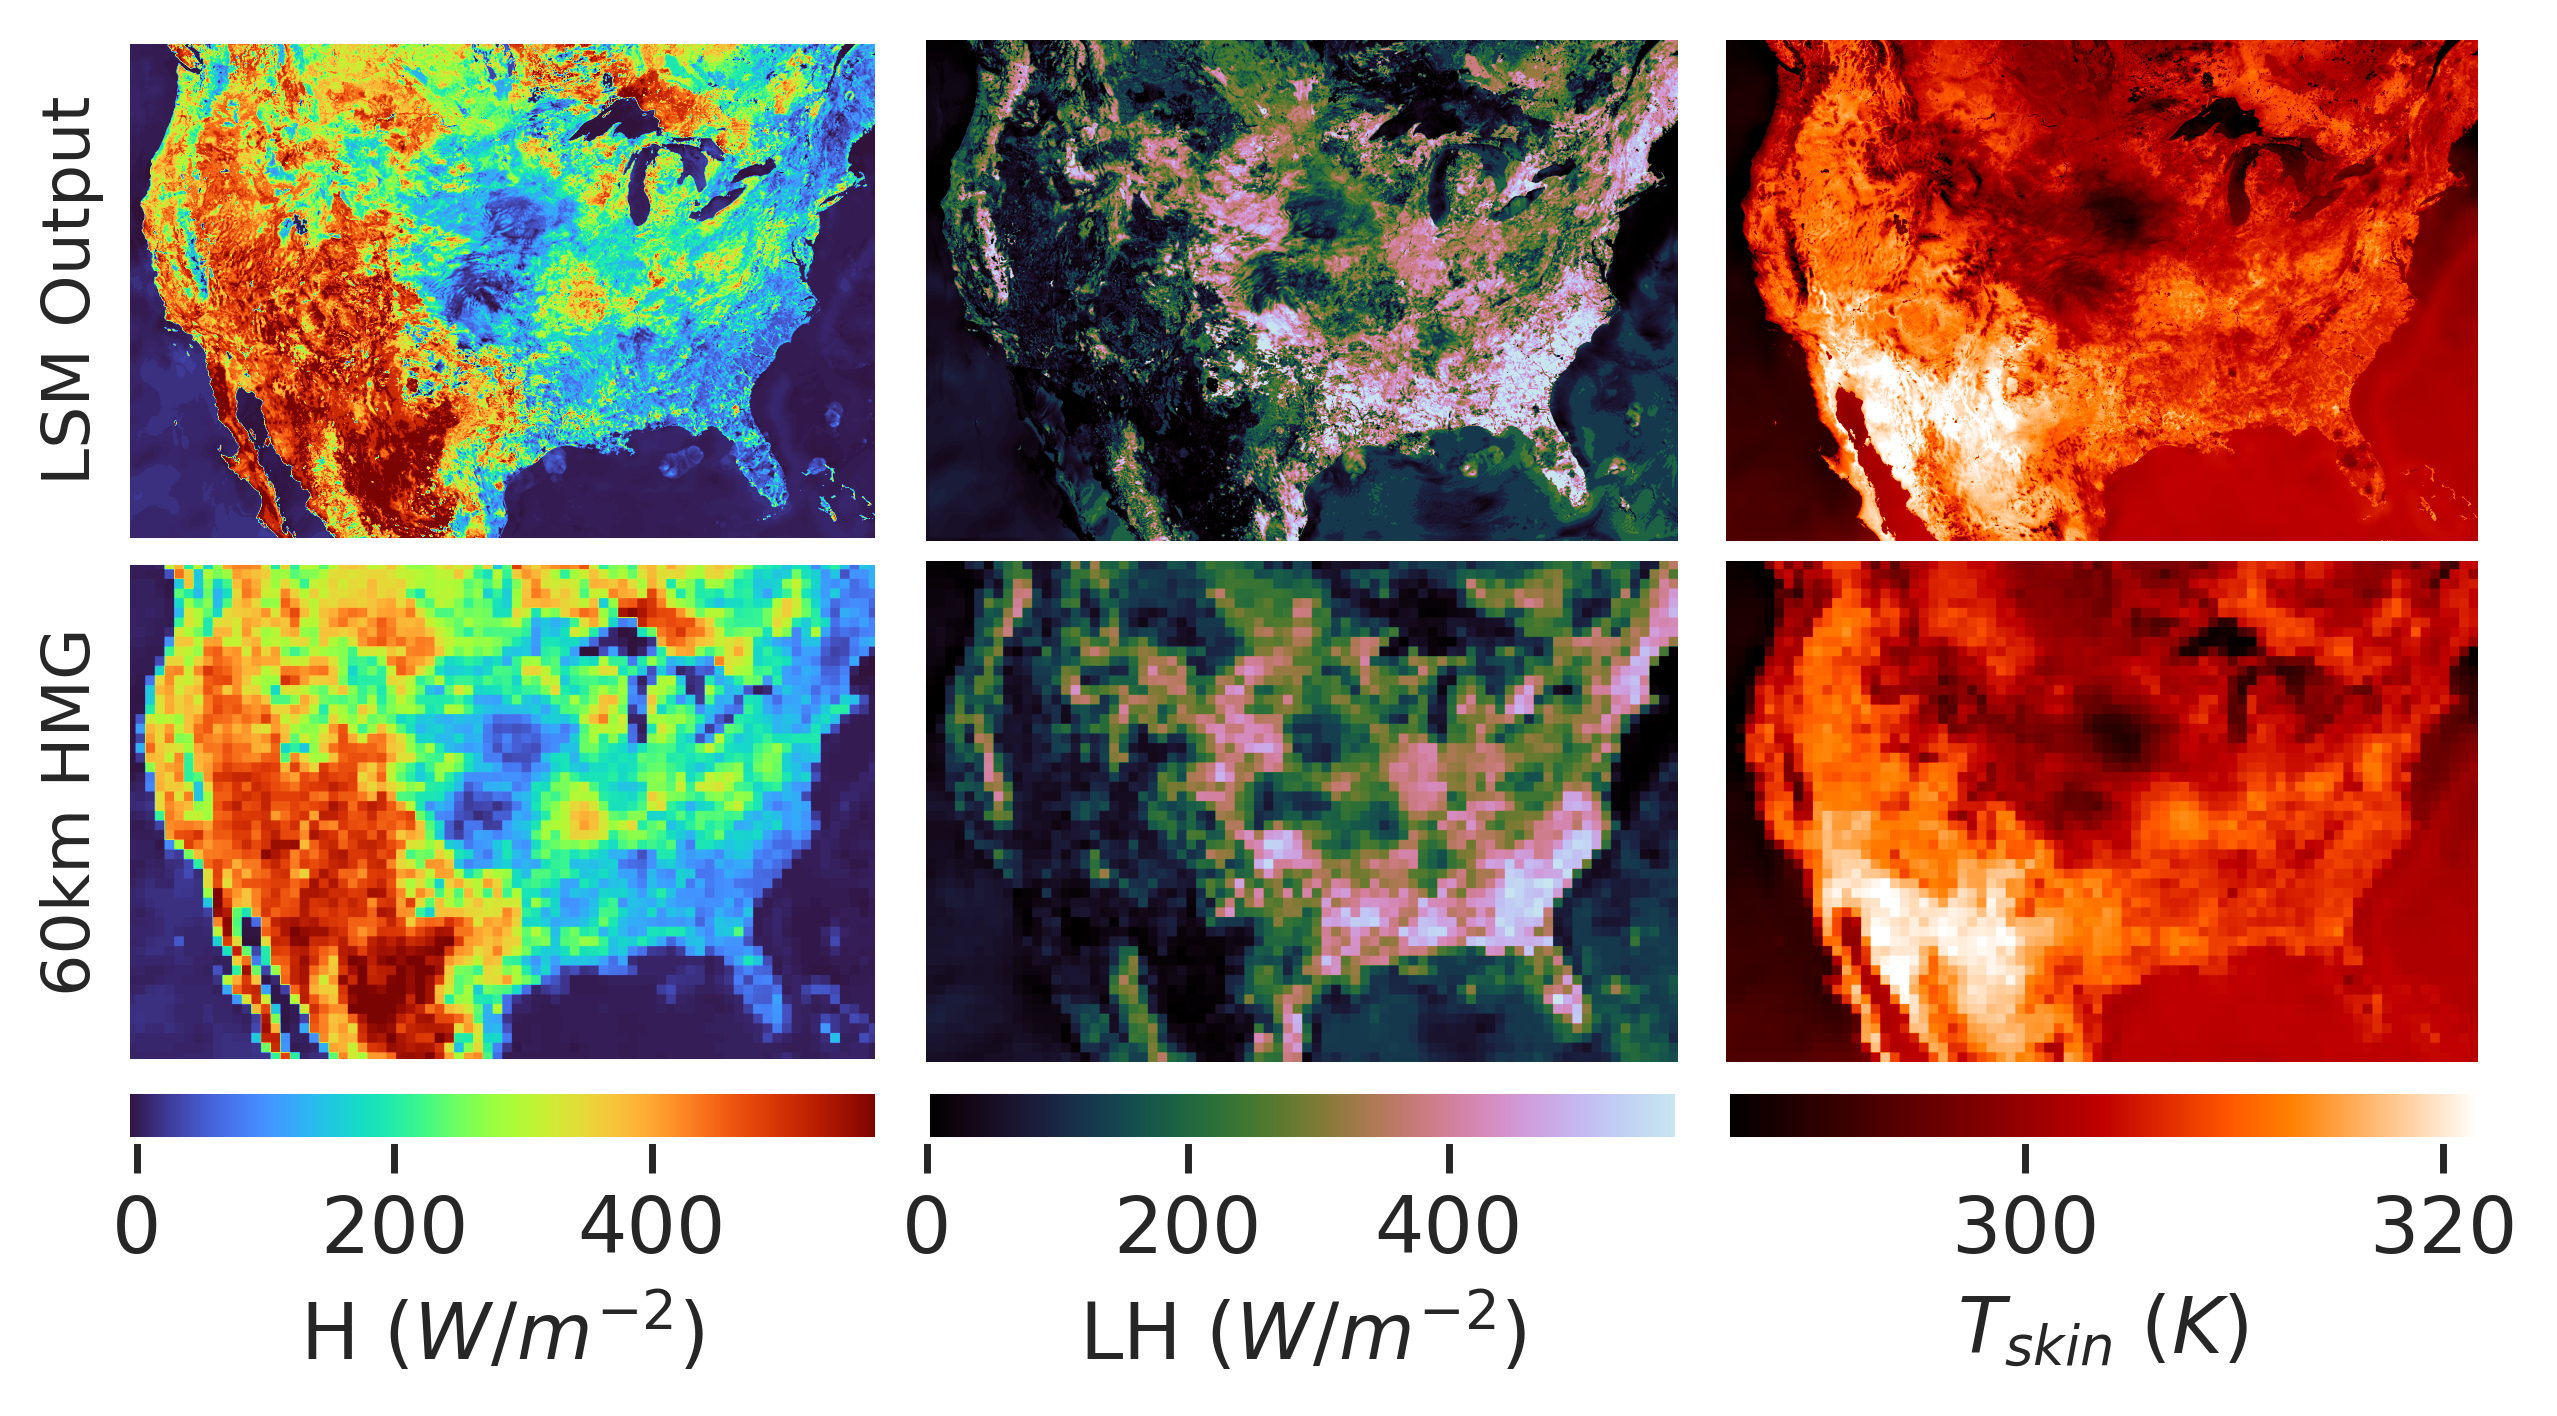
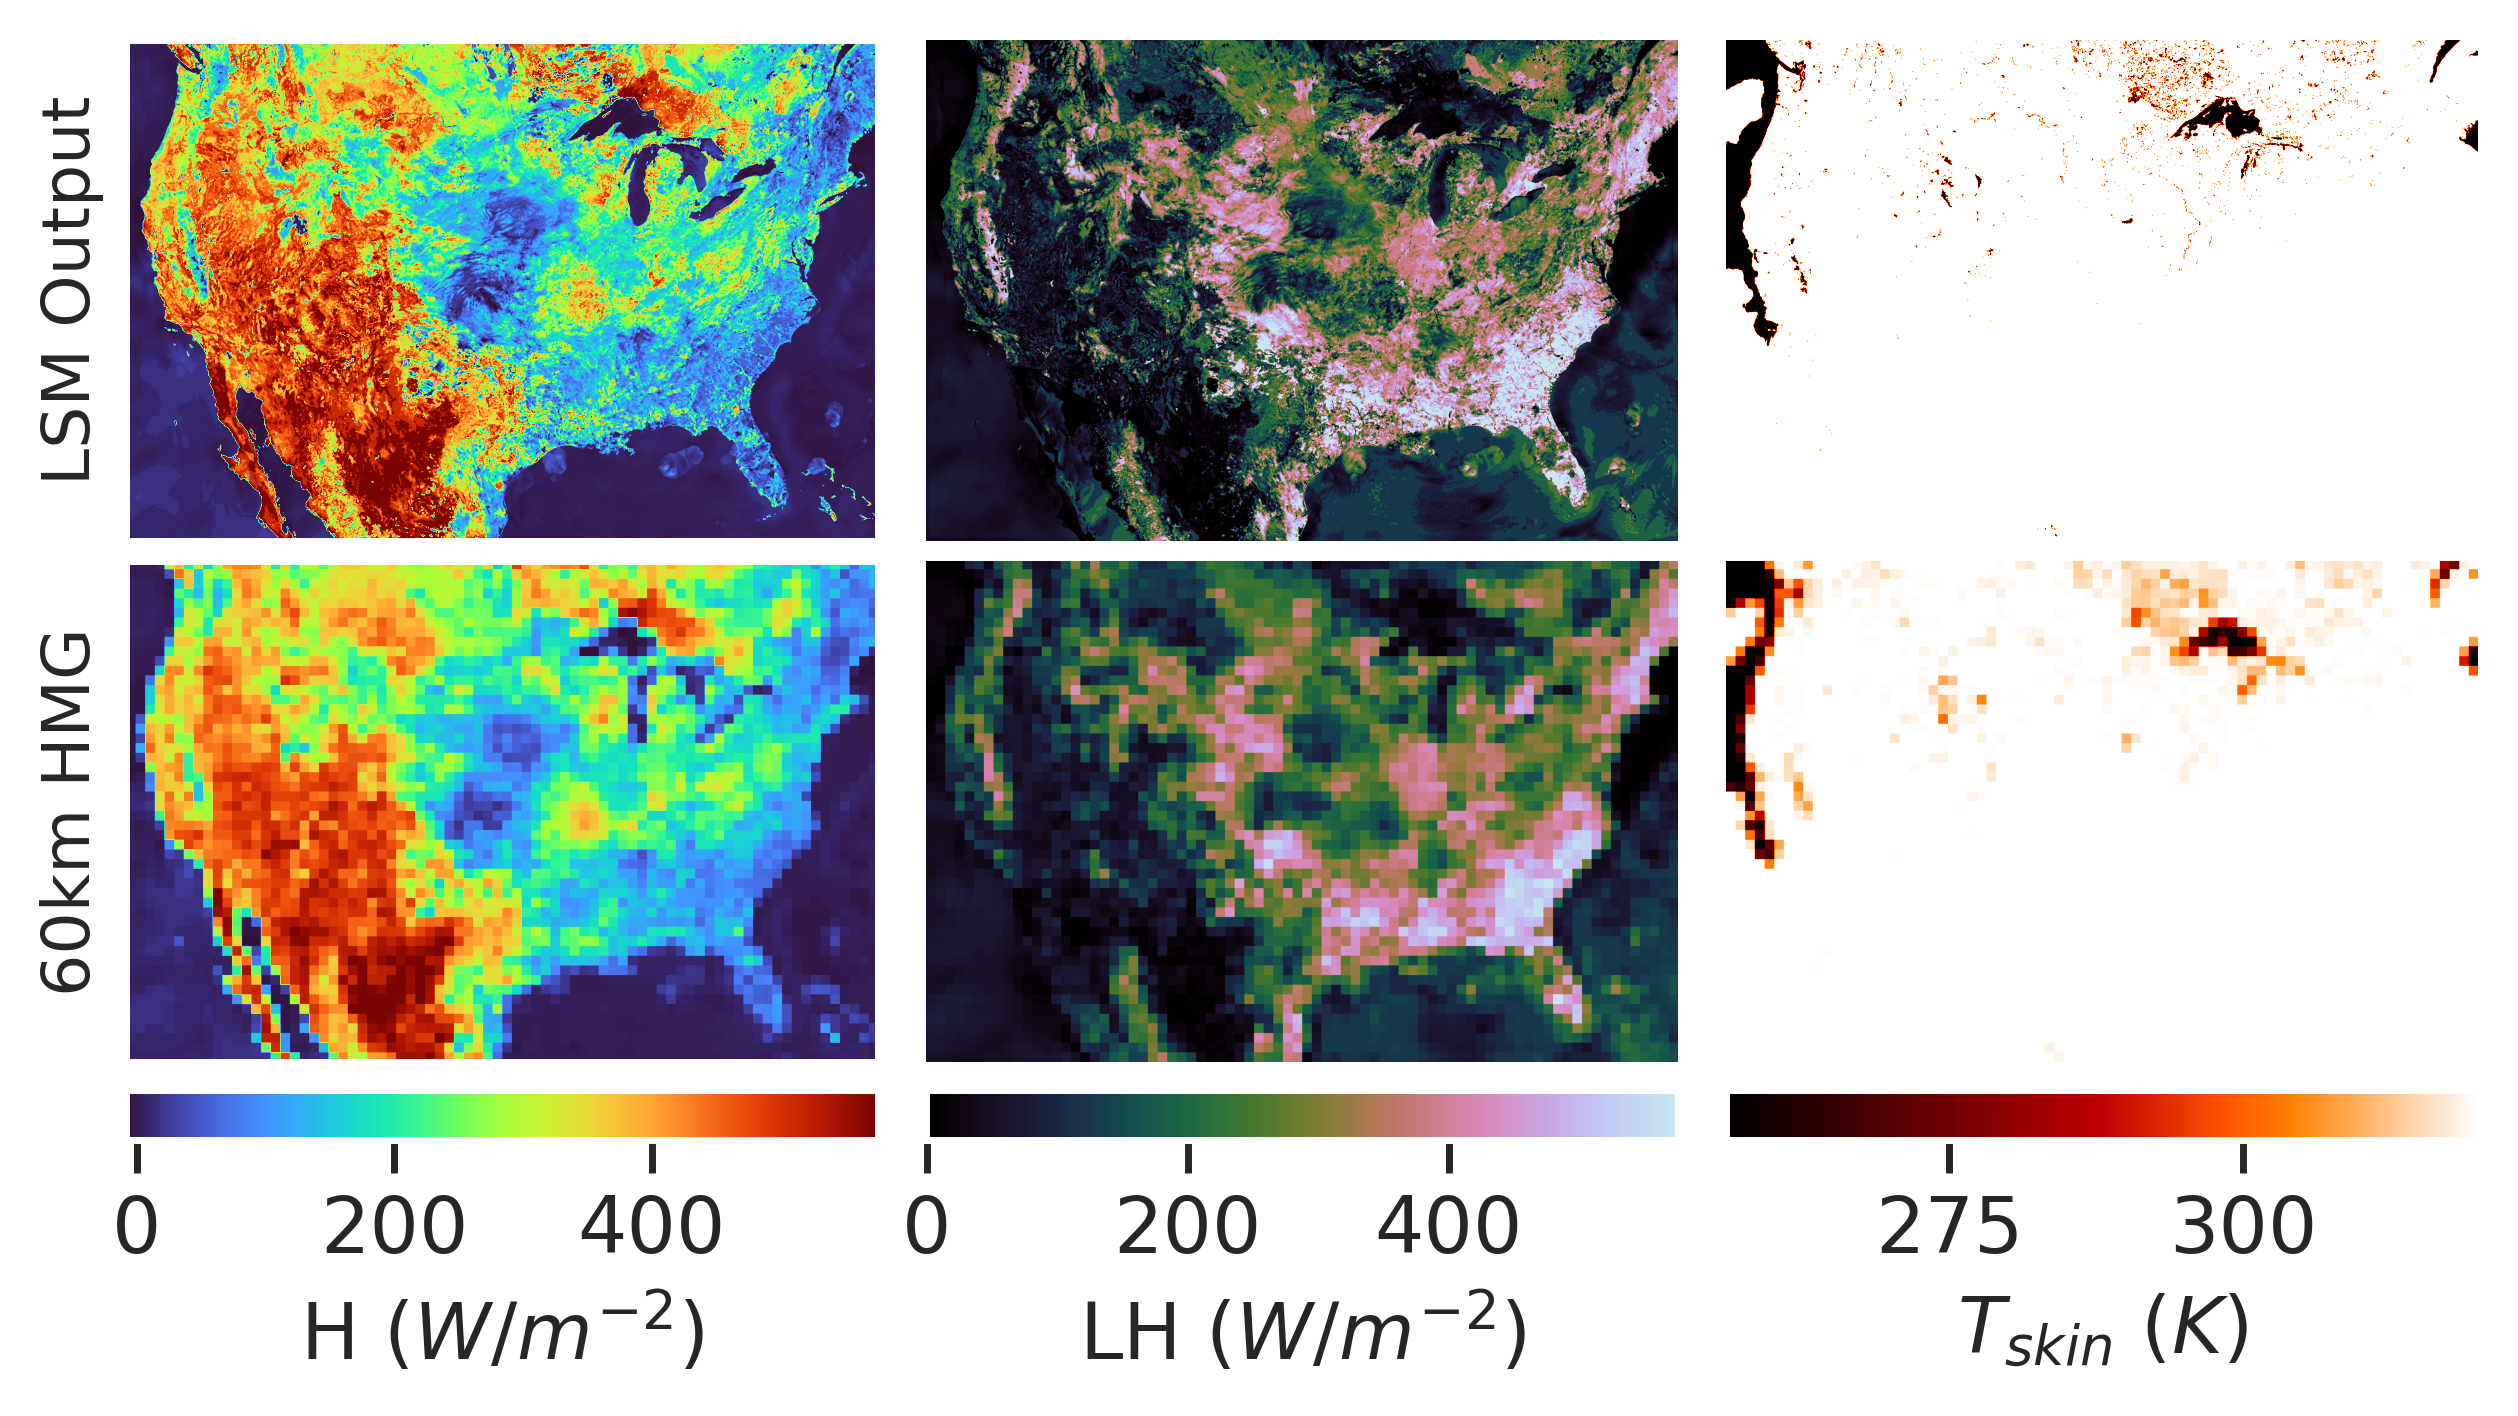
img2alt

diff --git a/jupyter_notebooks/paper3_figures.py b/jupyter_notebooks/paper3_figures.py
@@ -6,7 +6,7 @@
 #       extension: .py
 #       format_name: percent
 #       format_version: '1.3'
-#       jupytext_version: 1.15.2
+#       jupytext_version: 1.16.2
 #   kernelspec:
 #     display_name: Python 3 (ipykernel)
 #     language: python
@@ -29,7 +29,7 @@ import matplotlib.patheffects as pe
 import matplotlib
 import scipy as sci
 from IPython.display import HTML
-import wrf
+#import wrf
 from sklearn.metrics import mean_squared_error
 from matplotlib.gridspec import GridSpec
 import cmasher as cmr
@@ -93,9 +93,15 @@ def databig2(data):
 
 
 # %%
-fp2d=nc.Dataset('/home/tsw35/tyche/wrf_gaea/all/agg_2d.nc','r')
-fpagg=nc.Dataset('/home/tsw35/tyche/wrf_gaea/all/agg_full.nc','r')
-fpscl=nc.Dataset('/home/tsw35/tyche/wrf_hrrr/agg_scaling.nc','r')
+### CLUSTER PATH ###
+#fp2d=nc.Dataset('/home/tsw35/tyche/wrf_gaea/all/agg_2d.nc','r')
+#fpagg=nc.Dataset('/home/tsw35/tyche/wrf_gaea/all/agg_full.nc','r')
+#fpscl=nc.Dataset('/home/tsw35/tyche/wrf_hrrr/agg_scaling.nc','r')
+
+### FRAMEWORK PATH ###
+frkdir='/home/tswater/Documents/Elements_Temp/WRF/'
+fpscl=nc.Dataset(frkdir+'agg_files/agg_scaling.nc','r')
+
 
 
 # %%
@@ -119,8 +125,15 @@ cbarlabel2=r'LH ($W/m^{-2}$)'
 cbarlabel3=r'$T_{skin}$ ($K$)'
 lbsize=14
 
-fpt=nc.Dataset('/home/tsw35/tyche/wrf_hrrr/scaling/het/OUTPUT/wrfout_d01_2023-07-07_19:00:00','r')
-fpg=nc.Dataset('/home/tsw35/tyche/wrf_hrrr/scaling/hmg060/OUTPUT/wrfout_d01_2023-07-07_19:00:00','r')
+### CLUSTER PATH ###
+#fpt=nc.Dataset('/home/tsw35/tyche/wrf_hrrr/scaling/het/OUTPUT/wrfout_d01_2023-07-07_19:00:00','r')
+#fpg=nc.Dataset('/home/tsw35/tyche/wrf_hrrr/scaling/hmg060/OUTPUT/wrfout_d01_2023-07-07_19:00:00','r')
+
+### FRAMEWORK PATH ###
+frkdir='/home/tswater/Documents/Elements_Temp/WRF/'
+fpt=nc.Dataset(frkdir+'scaling_compressed/het/wrfout_d01_2023-07-07_190000','r')
+fpg=nc.Dataset(frkdir+'scaling_compressed/hmg060/wrfout_d01_2023-07-07_190000','r')
+
 
 fig = plt.figure(figsize=(6,6),layout='tight')
 subfigs = fig.subfigures(1, 3, hspace=0,wspace=0, width_ratios=[1,1, 1],frameon=False)
@@ -129,7 +142,7 @@ ht=fpscl['HFX'][0,10,:,:]
 hg=databig(meani(ht))#fpscl['HFX'][-2,10,:,:]
 lt=fpscl['LH'][0,10,:,:]
 lg=databig(meani(lt))#fpscl['LH'][-2,10,:,:]
-tt=fpt['TSK'][0,:,:]
+tt=fpscl['TSK'][0,10,:,:]
 tg=databig(meani(tt))#fpg['TSK'][0,:,:]
 
 vxh=np.nanpercentile(ht,99)
@@ -205,6 +218,53 @@ cb=grid.cbar_axes[0].colorbar(im,label=cbarlabel3)
 grid.cbar_axes[0].tick_params(labelsize=lbsize)
 cb.set_label(label=cbarlabel3,size=lbsize)
 plt.savefig('fig2.png', bbox_inches = "tight")
+
+# %% [markdown]
+# # Figure 2 Alt (HFX only)
+
+# %%
+fig = plt.figure(figsize=(6,6),layout='tight')
+
+cbarlabel1=r'H ($W/m^{-2}$)'
+cbarlabel2=r'LH ($W/m^{-2}$)'
+cbarlabel3=r'$T_{skin}$ ($K$)'
+lbsize=14
+
+ht=fpscl['HFX'][0,10,:,:]
+hg=databig(meani(ht))#fpscl['HFX'][-2,10,:,:]
+
+vxh=np.nanpercentile(ht,99)
+
+vnh=np.nanpercentile(ht,1)
+
+grid=ImageGrid(fig, 111,  # similar to subplot(111)
+                nrows_ncols=(1, 2),
+                axes_pad=0.05,
+                cbar_mode='single',
+                cbar_location='right',
+                cbar_pad=.02,
+                cbar_size="5%")
+
+im=grid[0].imshow(ht,origin='lower',cmap=hmap,vmin=vnh,vmax=vxh)
+im=grid[1].imshow(hg,origin='lower',cmap=hmap,vmin=vnh,vmax=vxh)
+
+grid[0].grid(False)
+grid[0].set_xticks([],[])
+grid[0].set_yticks([],[])
+grid[1].grid(False)
+grid[1].set_xticks([],[])
+grid[1].set_yticks([],[])
+
+grid[0].set_xlabel('LSM Output')
+grid[1].set_xlabel('60km HMG')
+
+cb=grid.cbar_axes[0].colorbar(im,label=cbarlabel1)
+grid.cbar_axes[0].tick_params(labelsize=lbsize)
+cb.set_label(label=cbarlabel1,size=lbsize)
+
+plt.savefig('fig2_alt.png', bbox_inches = "tight")
+
+# %%
 
 # %%
 

diff --git a/gaea_processing/daily_agg/agg_scaling.py b/gaea_processing/daily_agg/agg_scaling.py
@@ -8,10 +8,13 @@ import sys
 #argv = sys.argv[1:]
 #gaea_dir = argv[0]
 
+### CLUSTER FILEPATHS ###
 gaea_dir='/home/tsw35/tyche/wrf_hrrr/compressed/'
-
-#gaea_dir='/home/tsw35/xTyc_shared/compressed_output/'
 odir='/home/tsw35/tyche/wrf_hrrr/'
+
+### FRAMEWORK FILEPATHS ###
+gaea_dir='/run/media/tswater/Elements/WRF/scaling_compressed/'
+odir='/home/tswater/Documents/Elements_Temp/WRF/agg_files/'
 
 #### MEANS AND VARIANCES ####
 def vari(data,df=20):
@@ -55,13 +58,13 @@ for scl in scls:
     print(scl,flush=True)
     hrs=os.listdir(gaea_dir+scl)
     hrs.sort()
-    
+
     i=0
     for hr in hrs:
         print('   '+hr,flush=True)
-        
+
         fp=nc.Dataset(gaea_dir+scl+'/'+hr,'r')
-        
+
         hfx[s,i,:,:]=fp['HFX'][0,:]
         lh[s,i,:,:]=fp['LH'][0,:]
         tsurf[s,i,:,:]=fp['TSK'][0,:]
@@ -76,14 +79,11 @@ for scl in scls:
 
 
 #### CREATE OUTPUT ####
-try:
-    fp=nc.Dataset(odir+'agg_scaling.nc','r+')
-except Exception:
-    fp=nc.Dataset(odir+'agg_scaling.nc','w')
-    fp.createDimension('we',1559)
-    fp.createDimension('sn',1039)
-    fp.createDimension('time',N)
-    fp.createDimension('scale',7)
+fp=nc.Dataset(odir+'agg_scaling.nc','w')
+fp.createDimension('we',1559)
+fp.createDimension('sn',1039)
+fp.createDimension('time',N)
+fp.createDimension('scale',7)
 
 fp.createVariable('HFX','f4',('scale','time','sn', 'we'))
 fp.createVariable('TSK','f4',('scale','time','sn', 'we'))
